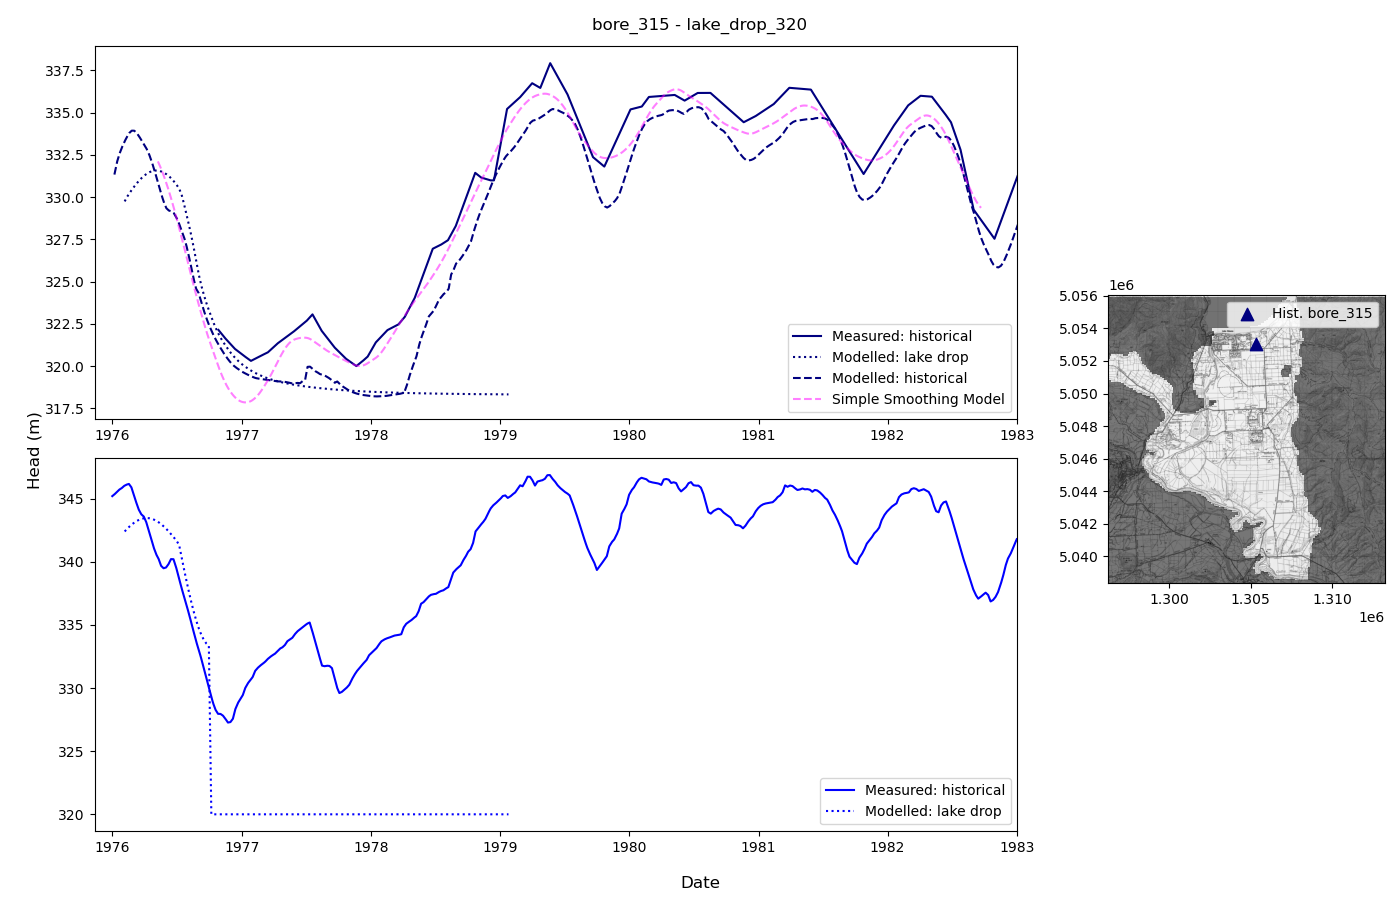
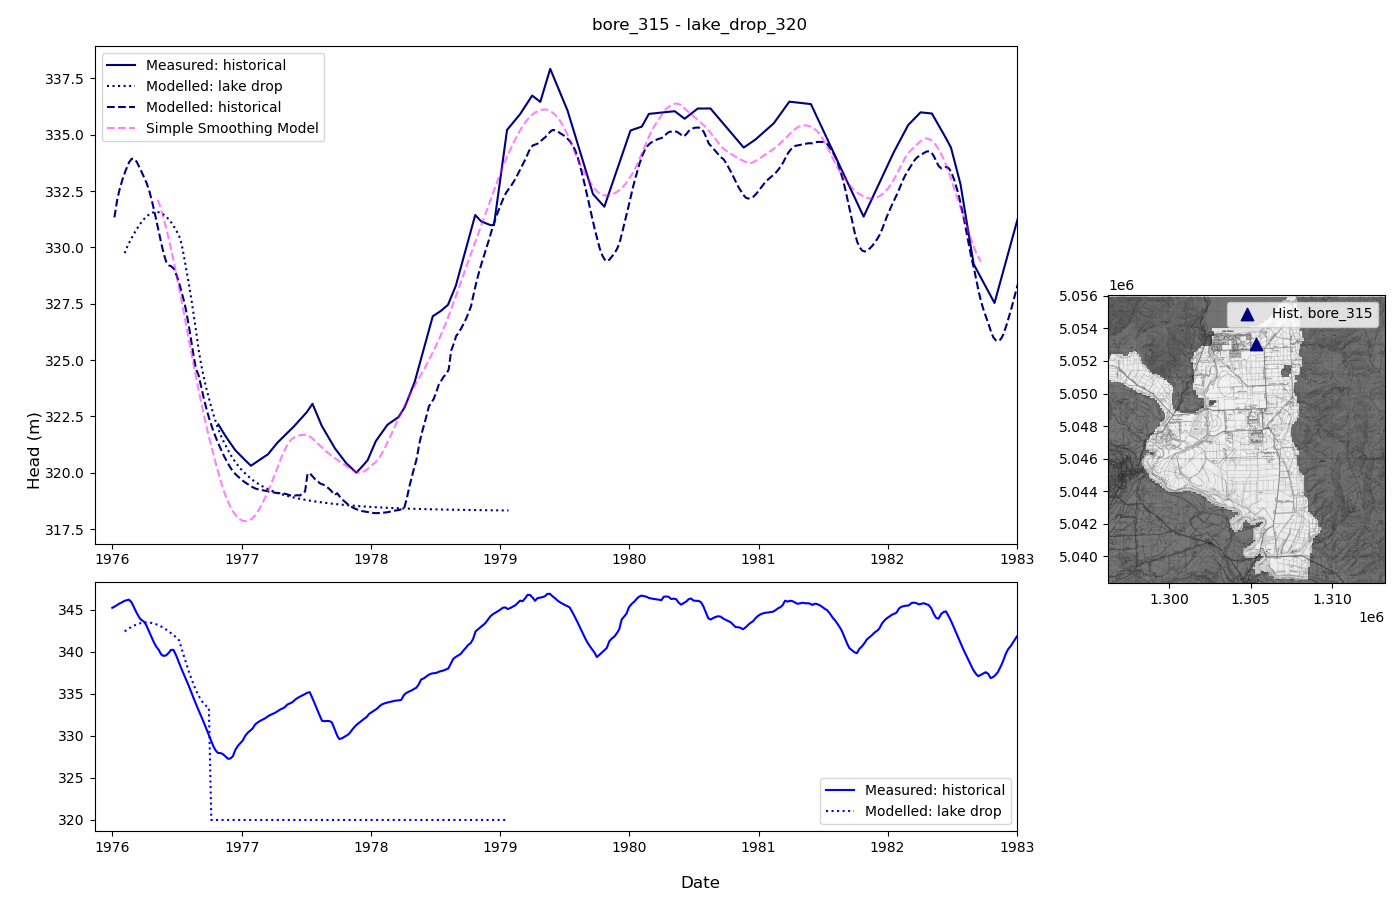
make a few figures for the preso

diff --git a/historical_investigation/preso_figure.py b/historical_investigation/preso_figure.py
@@ -21,7 +21,7 @@ def plot_hist_plus_lake_drop(scen, well):
 
     xs, modelled_lake = get_lake_hds(scen)
     fig = plt.figure(figsize=(14, 9))
-    gs = plt.GridSpec(2, 2, height_ratios=(1, 1), width_ratios=(1, 0.3))
+    gs = plt.GridSpec(2, 2, height_ratios=(2, 1), width_ratios=(1, 0.3))
     ax = fig.add_subplot(gs[0, 0])
     ax_lake = fig.add_subplot(gs[1, 0], sharex=ax)
     ax_loc = fig.add_subplot(gs[:, 1])
